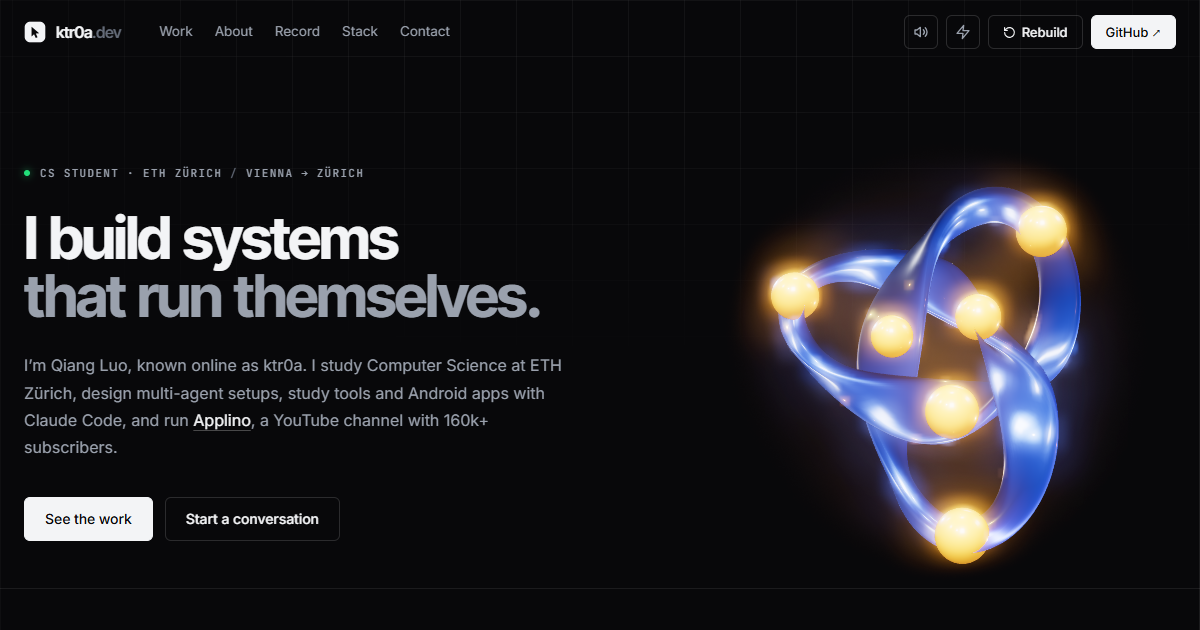
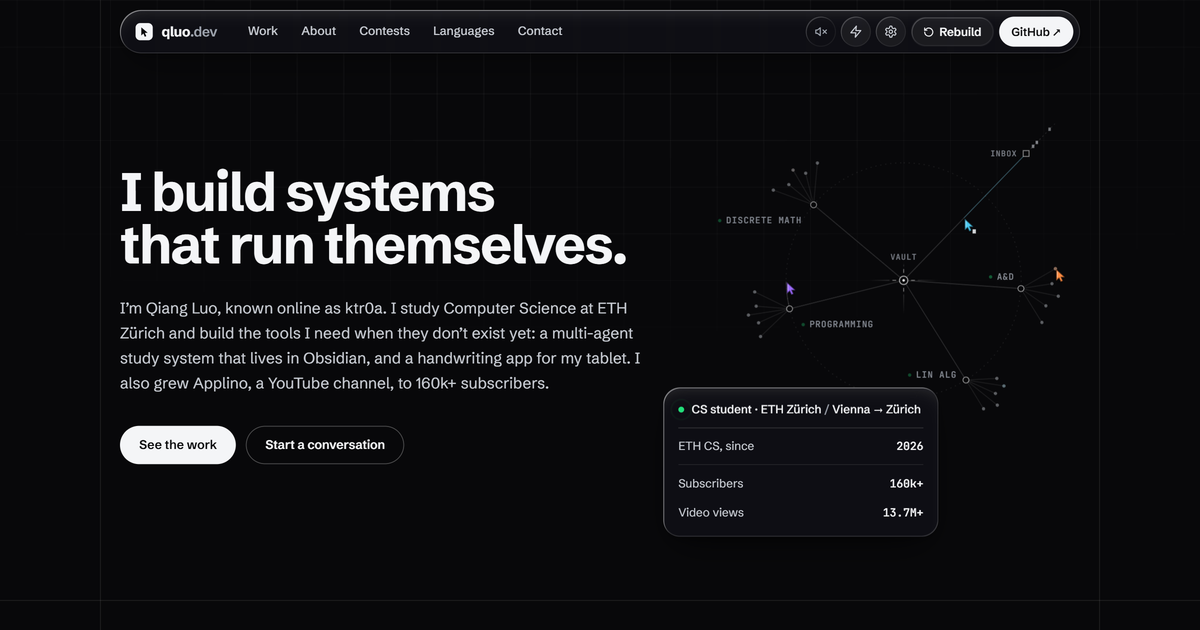
fix(og): link preview image shows the vault-map hero and qluo.dev brand
Re-shot from the live hero (1440x756, downscaled to 1200x630) and versioned
the og:image URL so social sites refetch it instead of reusing the cached one.

diff --git a/index.html b/index.html
@@ -24,7 +24,7 @@
   <meta property="og:url" content="https://qluo.dev/" />
   <meta property="og:title" content="Qiang Luo (ktr0a)" />
   <meta property="og:description" content="CS student at ETH Zürich. Multi-agent systems, study tools and Android apps. This site rebuilds itself live, by agents, on every visit." />
-  <meta property="og:image" content="https://qluo.dev/assets/og.png" />
+  <meta property="og:image" content="https://qluo.dev/assets/og.png?v=2" />
   <meta property="og:image:width" content="1200" />
   <meta property="og:image:height" content="630" />
   <meta property="og:image:alt" content="qluo.dev: I build systems that run themselves." />
